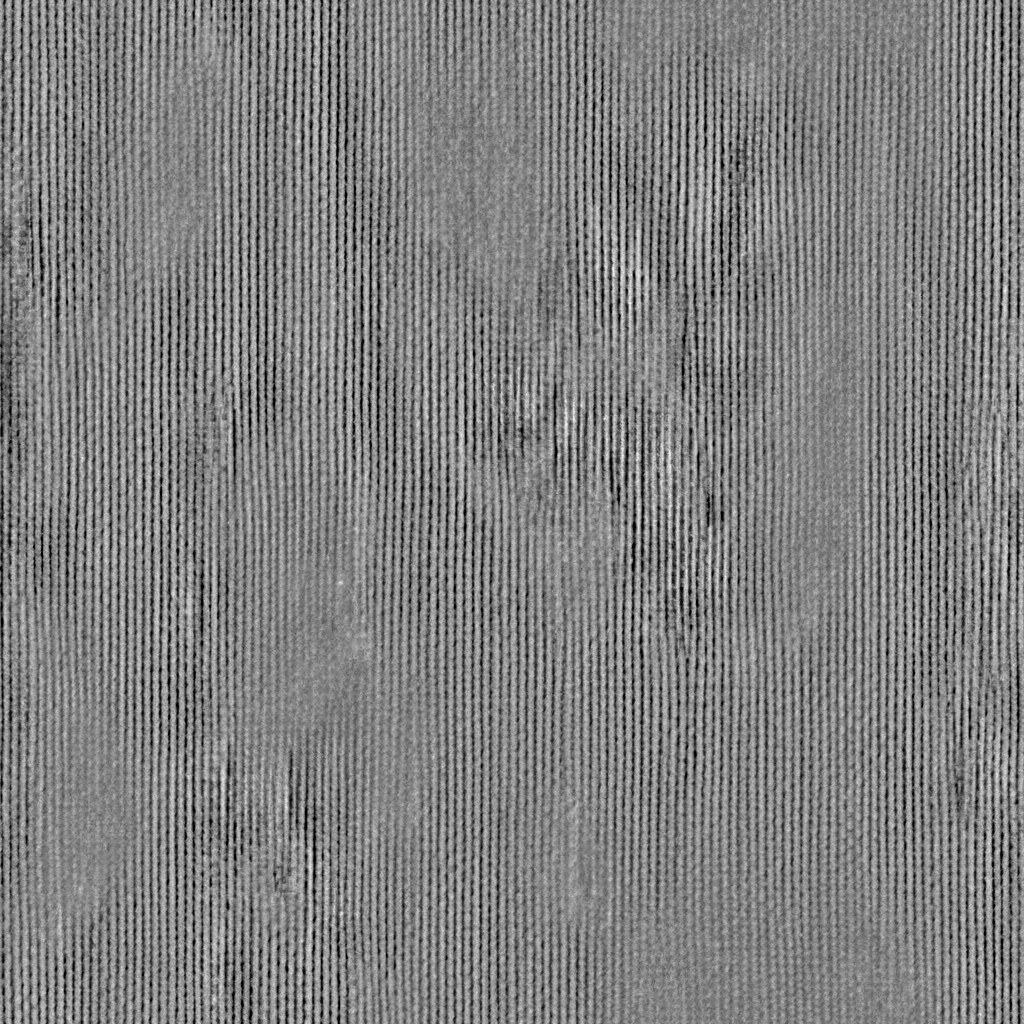
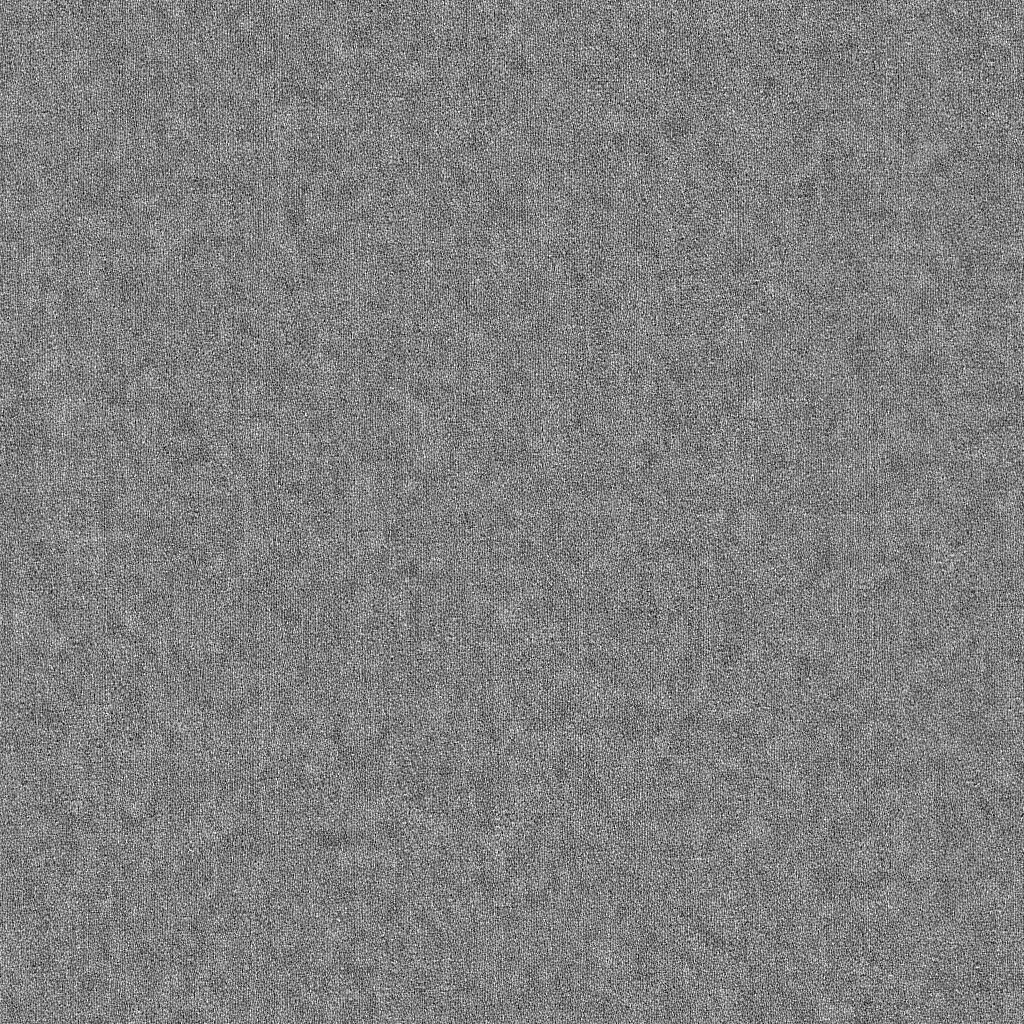
feat: make clothing fabrics with Z-Image Turbo

diff --git a/tools/skins/fabrics.py b/tools/skins/fabrics.py
@@ -6,12 +6,11 @@ over it for the second (Tailor.java). Each is a photograph of one material from 
 flat, that joins up with itself at its edges. Only its light and dark is used, so its colour does
 not matter, and it is asked for in a pale grey so that neither end of it is lost.
 
-Stable Diffusion XL base 1.0, through the maker tools/materials/generate.py has. Run with the venv
-that has torch and diffusers (see .lab/NOTES.md, "Generated materials"):
-    python tools/skins/fabrics.py --out DIR [--only weave hair ...] [--seed 7]
-Writes DIR/<name>.png at 1024, or DIR/<name>-<seed>.png for a seed other than the first, to choose
-between, and skips what is there already. With --pack it writes the chosen ones, as one channel at
-1024, into src/main/resources/fabric instead of making any.
+Z-Image Turbo, through the maker tools/materials/generate.py has, joined up at its edges as a surface is.
+Run with the venv that has torch and diffusers (see .lab/NOTES.md, "Generated materials"):
+    python tools/skins/fabrics.py --out DIR [--only weave hair ...] [--seeds 1 2 3 4]
+Writes DIR/<name>-<seed>.png at 1024, to choose between, and skips what is there already. With --pack it
+writes the seed CHOSEN of each, as one channel at 1024, into src/main/resources/fabric instead of making any.
 """
 import argparse
 import pathlib
@@ -21,28 +20,25 @@ import numpy
 from PIL import Image
 
 OUT = pathlib.Path(__file__).resolve().parents[2] / 'src' / 'main' / 'resources' / 'fabric'
-EVEN = 'filling the whole frame edge to edge, laid perfectly flat, flat even shadowless lighting, seamless texture, photorealistic, sharp focus, highly detailed'
+FLAT = (' It fills the whole frame from edge to edge and lies perfectly flat, with no folds, seams or edges in sight. A flatbed scanner'
+        ' image in flat even light with no shadows.')
 FABRICS = {
-    'weave': 'extreme macro photograph of plain pale grey cotton shirt fabric, tight plain weave, every warp and weft thread visible, ' + EVEN,
-    'twill': 'flatbed scanner image of pale grey denim jeans fabric pressed flat against the glass, fine diagonal twill lines, cotton threads visible, ' + EVEN,
-    'knit': 'extreme macro photograph of pale grey cotton jersey t-shirt fabric, fine machine knit, tiny v shaped stitches in vertical columns, ' + EVEN,
-    'wool': 'flatbed scanner image of a pale grey machine knitted wool sweater pressed flat against the glass, small even stocking stitch, rows of tiny v shaped stitches, ' + EVEN,
-    'leather': 'flatbed scanner image of smooth pale grey cowhide jacket leather pressed flat against the glass, very fine natural grain, tiny pores and hairline creases, matte, ' + EVEN,
-    'sleek': 'flatbed scanner image of pale grey nylon windbreaker fabric pressed flat against the glass, very fine smooth tight weave, ' + EVEN,
-    # Asked for as ripstop nylon, and it came out as this.
-    'canvas': 'extreme macro photograph of pale grey ripstop nylon fabric, very fine tight weave with a faint square grid of thicker threads, ' + EVEN,
-    'hair': 'macro photograph of long straight pale blonde human hair combed straight down, thousands of fine parallel strands running vertically from top to bottom, ' + EVEN,
+    'weave': 'A close view of plain pale grey cotton shirt fabric: a tight plain weave with every warp and weft thread visible.' + FLAT,
+    'twill': 'A close view of pale grey denim cloth: fine diagonal twill lines running across it, with the cotton threads visible.' + FLAT,
+    'knit': 'A close view of pale grey cotton jersey T-shirt fabric: a fine machine knit of tiny V shaped stitches in straight vertical columns.' + FLAT,
+    # Named as a sweater, a jacket or jeans, the garment itself was drawn, laid out whole.
+    'wool': 'A close view of pale grey knitted wool cloth: a small even stocking stitch, rows of tiny V shaped stitches in straight columns, plain '
+            'all over with no cables, ridges or pattern.' + FLAT,
+    'leather': 'A close view of smooth pale grey cowhide leather: a very fine natural grain with tiny pores and hairline creases, matte.' + FLAT,
+    'sleek': 'Pale grey nylon windbreaker fabric pressed flat against the glass of a scanner: a very fine smooth tight weave, clean and even all '
+             'over with no stains or marks.' + FLAT,
+    'canvas': 'A close view of pale grey ripstop nylon fabric: a very fine tight weave with a faint square grid of thicker threads.' + FLAT,
+    'hair': 'A close view of long straight pale blonde human hair combed straight down: thousands of fine parallel strands running vertically '
+            'from the top of the frame to the bottom. The hair fills the whole frame from edge to edge, with no scalp, no parting and no ends in '
+            'sight. A plain close photograph in flat even light with no shadows.',
 }
-NEGATIVE = ('folds, creases, wrinkles, drapery, seam, stitching line, button, label, hem, edge of the cloth, shadows, perspective, objects, pattern, print, stripes, '
-            'text, watermark, blurry, painting, illustration, drawing, vignette, border, 3d render')
-OWN_NEGATIVE = {
-    'hair': 'face, scalp, skin, ear, parting, curls, waves, braid, hair tie, comb, shadows, perspective, text, watermark, blurry, painting, illustration, drawing, vignette, border, 3d render',
-    'leather': 'folds, seam, stitching, button, shadows, perspective, objects, scales, petals, crocodile, snake, cracked, pebbles, text, watermark, blurry, painting, illustration, vignette, border, 3d render',
-    'wool': 'chunky, thick rope, cables, braids, chain, holes, folds, seam, button, shadows, perspective, objects, text, watermark, blurry, painting, illustration, vignette, border, 3d render',
-}
-FIRST_SEED = 1993
-# The seed each fabric in the mod came out of, where the first gave folds, a pattern or nothing at all.
-CHOSEN = {'wool': 7, 'leather': 21, 'sleek': 7}
+# The seed each fabric in the mod came out of.
+CHOSEN = {'weave': 1, 'twill': 2, 'knit': 1, 'wool': 2, 'leather': 1, 'sleek': 2, 'canvas': 1, 'hair': 2}
 # How far a fabric's light and dark stand from its middle, as a part of the middle, taken all together.
 CONTRAST = 0.3
 
@@ -51,7 +47,9 @@ def pack(pictures):
     """The chosen pictures as the mod reads them: light and dark only, evened out so that no part of one is lighter than another."""
     OUT.mkdir(parents=True, exist_ok=True)
     for name in FABRICS:
-        chosen = f'{name}-{CHOSEN[name]}.png' if name in CHOSEN else f'{name}.png'
+        if name not in CHOSEN:
+            raise SystemExit(f'{name}: no seed of it is CHOSEN')
+        chosen = f'{name}-{CHOSEN[name]}.png'
         light = numpy.asarray(Image.open(pictures / chosen).convert('L'), dtype=numpy.float32) / 255.0
         # What is broader than the threads is the photograph's lighting, not the cloth: it is taken out, wrapping as the picture does.
         size = light.shape[0]
@@ -72,7 +70,7 @@ def main():
     parser = argparse.ArgumentParser()
     parser.add_argument('--out', required=True)
     parser.add_argument('--only', nargs='*', default=[])
-    parser.add_argument('--seed', type=int, default=FIRST_SEED)
+    parser.add_argument('--seeds', nargs='*', type=int, default=[1, 2, 3, 4])
     parser.add_argument('--pack', action='store_true')
     args = parser.parse_args()
     out = pathlib.Path(args.out)
@@ -83,18 +81,17 @@ def main():
     unknown = [name for name in args.only if name not in FABRICS]
     if unknown:
         raise SystemExit('no such fabric: ' + ' '.join(unknown))
-    tail = '' if args.seed == FIRST_SEED else f'-{args.seed}'
-    wanted = [name for name in FABRICS if (not args.only or name in args.only) and not (out / f'{name}{tail}.png').exists()]
+    wanted = [(name, seed) for name in FABRICS if not args.only or name in args.only for seed in args.seeds if not (out / f'{name}-{seed}.png').exists()]
     if not wanted:
         print('nothing to make', flush=True)
         return
     sys.path.insert(0, str(pathlib.Path(__file__).resolve().parents[1] / 'materials'))
     import generate as materials
     maker = materials.Maker()
-    words = maker.words({name: (FABRICS[name], OWN_NEGATIVE.get(name, NEGATIVE)) for name in wanted})
-    for name in wanted:
-        maker.make(words[name], args.seed, 1024, True, 6.0).save(out / f'{name}{tail}.png')
-        print('made', name, flush=True)
+    words = maker.words({name: FABRICS[name] for name in dict.fromkeys(name for name, _ in wanted)})
+    for name, seed in wanted:
+        maker.make(words[name], seed, 1024, 1024, True).save(out / f'{name}-{seed}.png')
+        print('made', f'{name}-{seed}', flush=True)
 
 
 if __name__ == '__main__':
